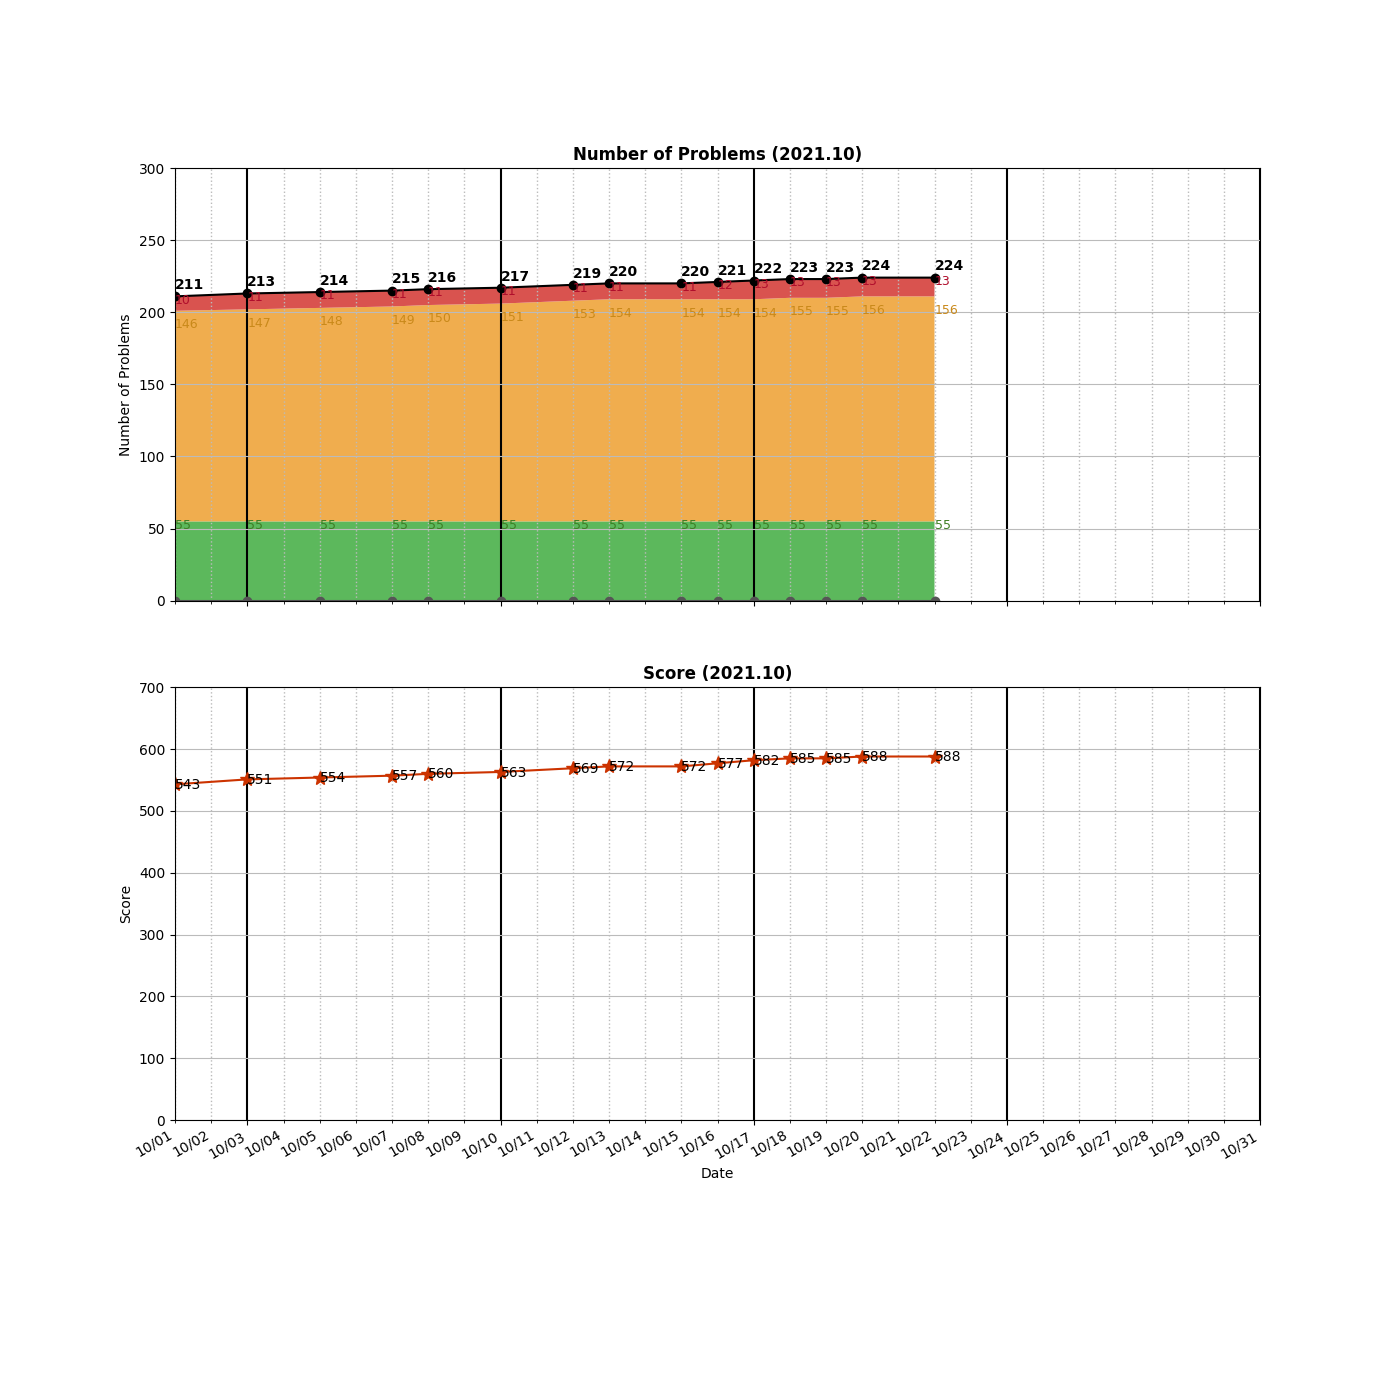
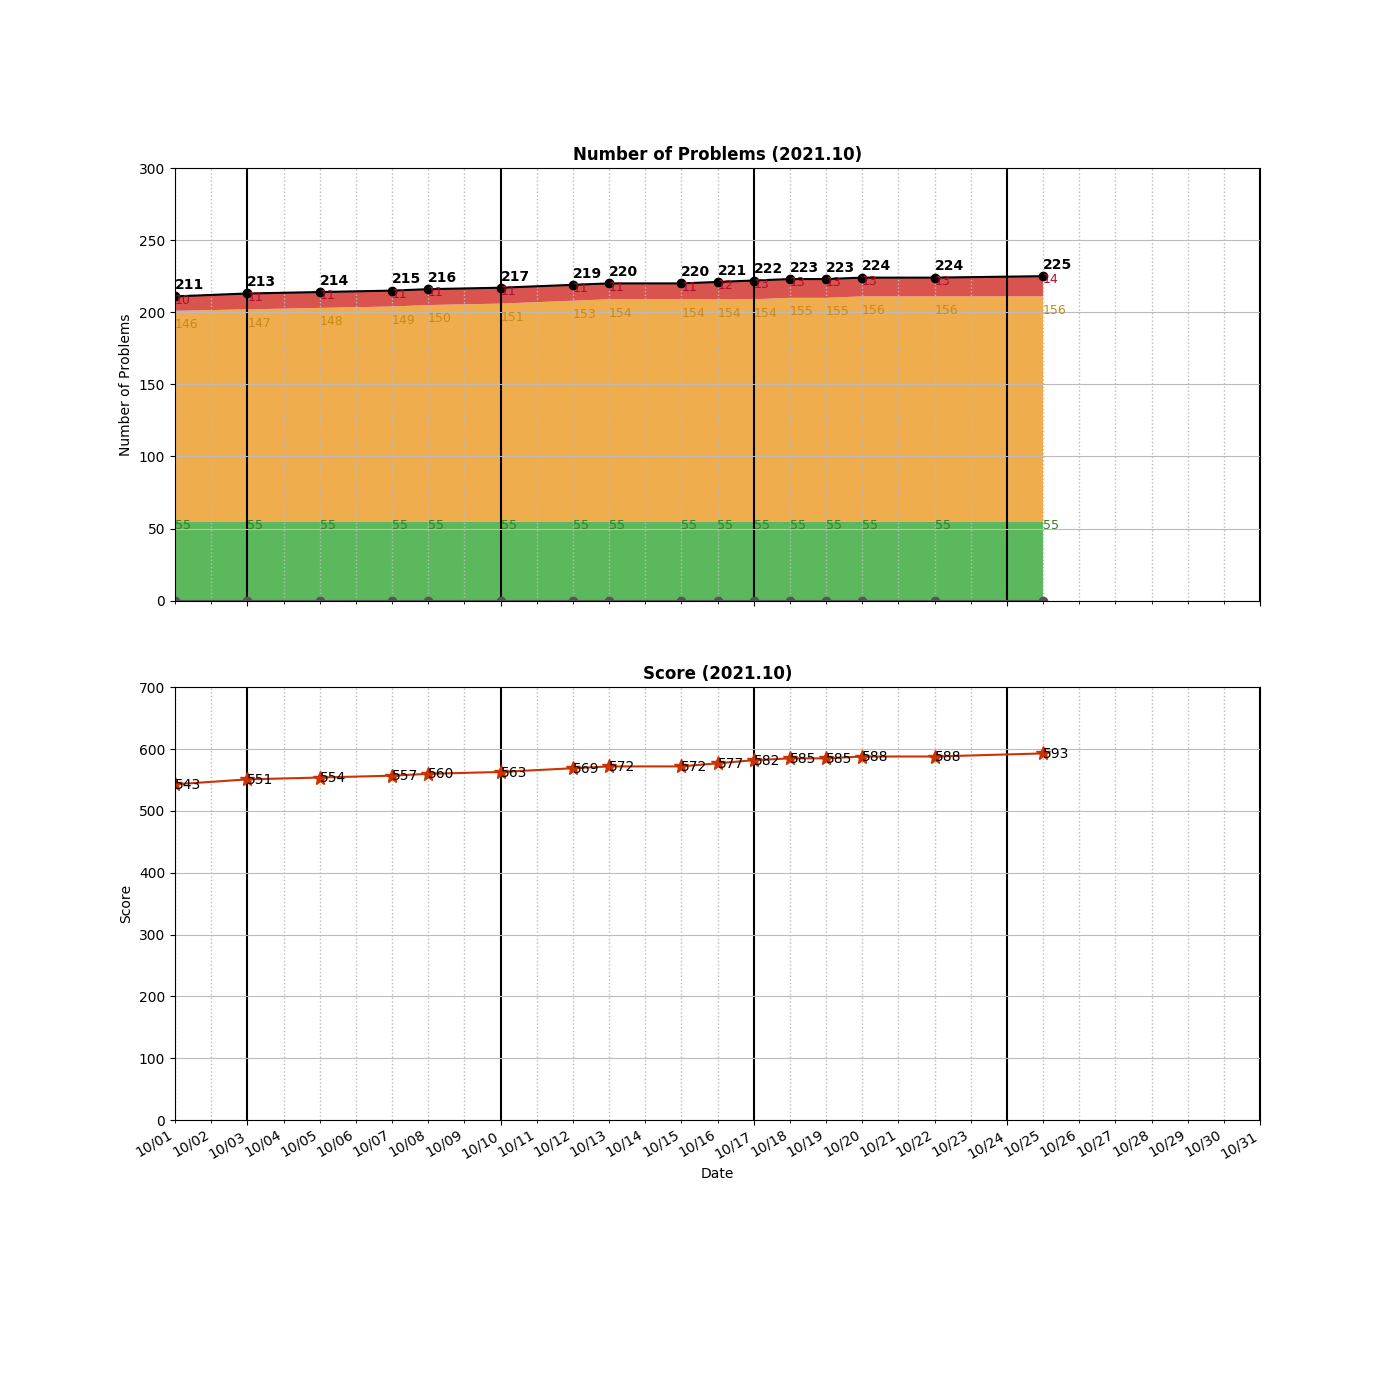
Added __0126__Word Ladder II.py

Changed region(s): [[0.645, 0.1843, 0.7679, 0.43], [0.7371, 0.5221, 0.7679, 0.5529]]

diff --git a/algo/BFS/__0126__Word Ladder II.py b/algo/BFS/__0126__Word Ladder II.py
@@ -1,0 +1,160 @@
+class Solution:
+    
+    # BFS with whole path; removing redanduncy on the fly [41%]
+    def findLadders(self, beginWord: str, endWord: str, wordList: List[str]) -> List[List[str]]:
+        print("BFF with whole path")
+        
+        wordSet = set(wordList)
+        nodeMap = collections.defaultdict(list)
+        
+        #Find possible next words and do memoization
+        def findNextWords(cur):
+            if cur in nodeMap:
+                return nodeMap[cur]
+            nextWords = []
+            for i in range(len(cur)):
+                for nc in "abcdefghijklmnopqrstuvwxyz":
+                    word = cur[:i] + nc + cur[i+1:]
+                    if word in wordSet:
+                           nextWords.append(word)
+            nodeMap[cur] = nextWords
+            return nextWords
+        
+        #BFS to find the min distance
+        def findMinDistance():
+            distance = {beginWord: [1, [tuple([beginWord])]]}
+            deq = collections.deque([beginWord])
+            res = []
+            minDistance = inf
+            while deq:
+                cur = deq.popleft()
+                curDistance, curPaths = distance[cur][0], distance[cur][1]
+                nextWords = findNextWords(cur)
+                
+                for nextWord in nextWords:
+                    nextDistance = curDistance + 1
+        
+                    # Add into deq when (1) new word or (2) new distance is not larger then recorded distance
+                    if nextWord in distance and nextDistance > distance[nextWord][0]:
+                        continue
+                    deq.append(nextWord)
+                    
+                    # Remove duplicates on the fly
+                    nextPaths = set()
+                    
+                    # Compose new paths based on the curren paths (might be multiple)
+                    if nextWord in distance: 
+                        nextPaths = distance[nextWord][1]
+                    for idx, curPath in enumerate(curPaths):
+                        nextPaths.add(curPath + tuple([nextWord]))
+                        
+                    distance[nextWord] = [nextDistance, nextPaths] 
+                    
+            if endWord in distance:
+                #res = list(set([tuple(path) for path in distance[endWord][1]]))
+                res = list(distance[endWord][1])
+            return res
+        
+        res = findMinDistance()
+        return res
+        
+    # =============================================================
+    # BFS + DFS [TLE]
+    def findLadders1(self, beginWord: str, endWord: str, wordList: List[str]) -> List[List[str]]:
+        print("BFS + DFS")
+        
+        wordSet = set(wordList)
+        nodeMap = collections.defaultdict(list)
+        
+        #Find possible next words and do memoization
+        def findNextWords(cur):
+            if cur in nodeMap:
+                return nodeMap[cur]
+            nextWords = []
+            for i in range(len(cur)):
+                for nc in "abcdefghijklmnopqrstuvwxyz":
+                    word = cur[:i] + nc + cur[i+1:]
+                    if word in wordSet:
+                           nextWords.append(word)
+            nodeMap[cur] = nextWords
+            return nextWords
+        
+        #BFS to find the min distance
+        def findMinDistance():
+            distance = {beginWord: 1}
+            deq = collections.deque([beginWord])
+            while deq:
+                cur = deq.popleft()
+                nextWords = findNextWords(cur)
+                for nextWord in nextWords:
+                    if nextWord in distance:
+                        continue
+                    deq.append(nextWord)
+                    distance[nextWord] = distance[cur] + 1 
+                    if nextWord == endWord:
+                        return distance[nextWord]
+            return None
+        
+        #Helper function for DFS
+        def dfs(cur, res, visited, maxLayer, layer):
+            if layer >= maxLayer:
+                if cur[-1] == endWord:
+                    res.append(cur)
+                return
+
+            nextWords = findNextWords(cur[-1])
+            for nextWord in nextWords:
+                if nextWord in visited:
+                    continue
+                visited.add(nextWord)
+                dfs(cur + [nextWord], res, visited, maxLayer, layer + 1)
+                visited.remove(nextWord)
+            
+        #DFS to find the paths
+        def findPathsWithMinDistance(minD):
+            visited = set()
+            res = []
+            dfs([beginWord], res, visited, minD, 1)
+            return res
+        
+        res = []
+        minDistance = findMinDistance()
+        if minDistance == None:
+            return []
+        else:
+            res = findPathsWithMinDistance(minDistance)
+            return res
+        
+    # =============================================================
+    # Only BFS -> Can only find one path 
+    def findLadders1(self, beginWord: str, endWord: str, wordList: List[str]) -> List[List[str]]:
+        print("BFS + can only find one path")
+        def findNextWords(cur):
+            res = []
+            for i in range(len(cur)):
+                for nc in "abcdefghijklmnopqrstuvwxyz":
+                    word = cur[:i] + nc + cur[i+1:]
+                    if word in wordSet:
+                           res.append(word)
+            return res
+        
+        wordSet = set(wordList)
+        deq = collections.deque([beginWord])
+        distance = collections.defaultdict(list)
+        distance[beginWord] = [1, [beginWord]]
+        res = []
+        
+        while deq:
+            cur = deq.popleft()
+            nextWords = findNextWords(cur)
+            print(distance)
+            for nextWord in nextWords:
+                if nextWord in distance:
+                    continue
+                print(">>>", nextWord)
+                deq.append(nextWord)
+                distance[nextWord].append(distance[cur][0] + 1)
+                distance[nextWord].append(distance[cur][1] + [nextWord])
+                if nextWord == endWord:
+                    res.append(distance[nextWord][1])
+        return res

diff --git a/README.md b/README.md
@@ -15,6 +15,7 @@ algo
 │   ├── __0103__Binary Tree Zigzag Level Order Traversal.py
 │   ├── __0107__Binary Tree Level Order Traversal II.py
 │   ├── __0111__Minimum Depth of Binary Tree.py
+│   ├── __0126__Word Ladder II.py
 │   ├── __0127__Word Ladder.py
 │   ├── __0133__Clone Graph.py
 │   ├── __0199__Binary Tree Right Side View.py
@@ -247,7 +248,7 @@ algo
         ├── LinkedList.cpython-37.pyc
         └── UnrolledLinkedList.cpython-37.pyc
 
-21 directories, 225 files
+21 directories, 226 files
 
 =====================================
 ============= Local Repo ============
@@ -320,6 +321,7 @@ __0120__Triangle.py
 __0121__Best Time to Buy and Sell Stock.py
 __0122__Best Time to Buy and Sell Stock II.py
 __0125__Valid Palindrome.py
+__0126__Word Ladder II.py
 __0127__Word Ladder.py
 __0128__Longest Consecutive Sequence.py
 __0129__Sum Root to Leaf Numbers.py
@@ -470,7 +472,7 @@ __1774__Closest Dessert Cost.py
 __1905__Count Sub Islands.py
 __1937__Maximum Number of Points with Cost.py
 =====================================
-Num of Python Practice:  217
+Num of Python Practice:  218
 
 
 =====================================
@@ -546,6 +548,7 @@ Num of Python Practice:  217
  0121 Best Time to Buy and Sell Stock
  0122 Best Time to Buy and Sell Stock II
  0125 Valid Palindrome
+ 0126 Word Ladder II
  0127 Word Ladder
  0128 Longest Consecutive Sequence
  0129 Sum Root to Leaf Numbers
@@ -701,11 +704,11 @@ Num of Python Practice:  217
  1905 Count Sub Islands
  1937 Maximum Number of Points with Cost
 =====================================
-Solved / Total (Easy)  :   55 /  521
-Solved / Total (Medium):  156 / 1090
-Solved / Total (Hard)  :   13 /  435
-Solved / Total (All)   :  224 / 2046
-Total Score            :  588
+Solved / Total (Easy)  :   55 /  522
+Solved / Total (Medium):  156 / 1092
+Solved / Total (Hard)  :   14 /  436
+Solved / Total (All)   :  225 / 2050
+Total Score            :  593
 =====================================
 
 ```
